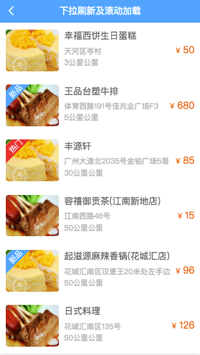
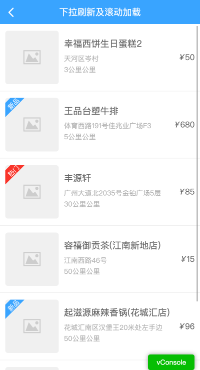
更新列表模板

diff --git a/templates/page-list/pages/list/list.js b/templates/page-list/pages/list/list.js
@@ -49,7 +49,7 @@ loader.define(function (requires, exports, module, global) {
                         }
 
                         html += `<li class="bui-btn bui-box" href="pages/ui/article.html?title=${el.name}">
-                            <div class="bui-thumbnail ${subClass}" data-sub="${sub}" ><img src="${el.image}" alt=""></div>
+                            <div class="bui-thumbnail ${subClass}" data-sub="${sub}" ><img src="images/img.svg" alt=""></div>
                             <div class="span1">
                                 <h3 class="item-title">${el.name}</h3>
                                 <p class="item-text">${el.address}</p>
